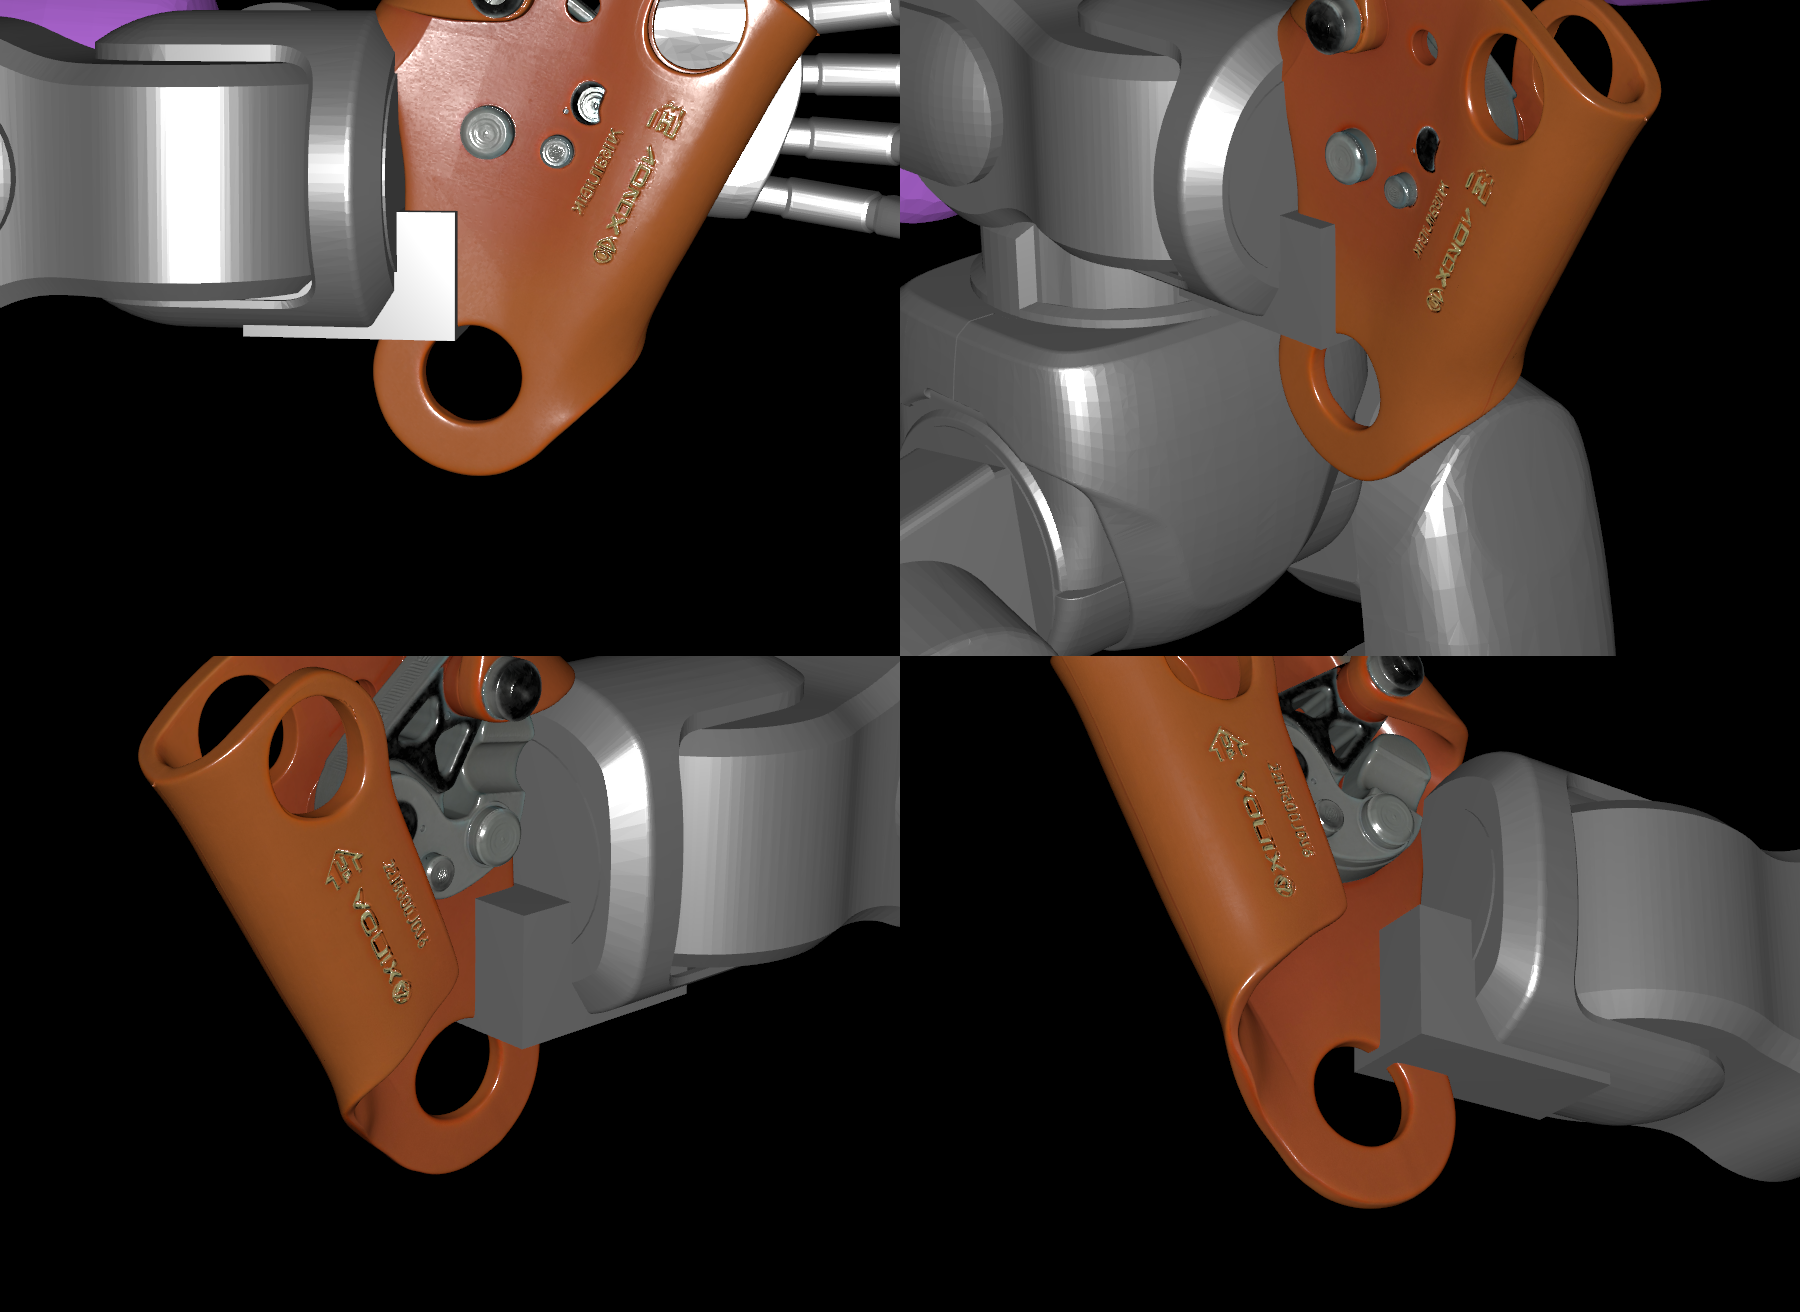
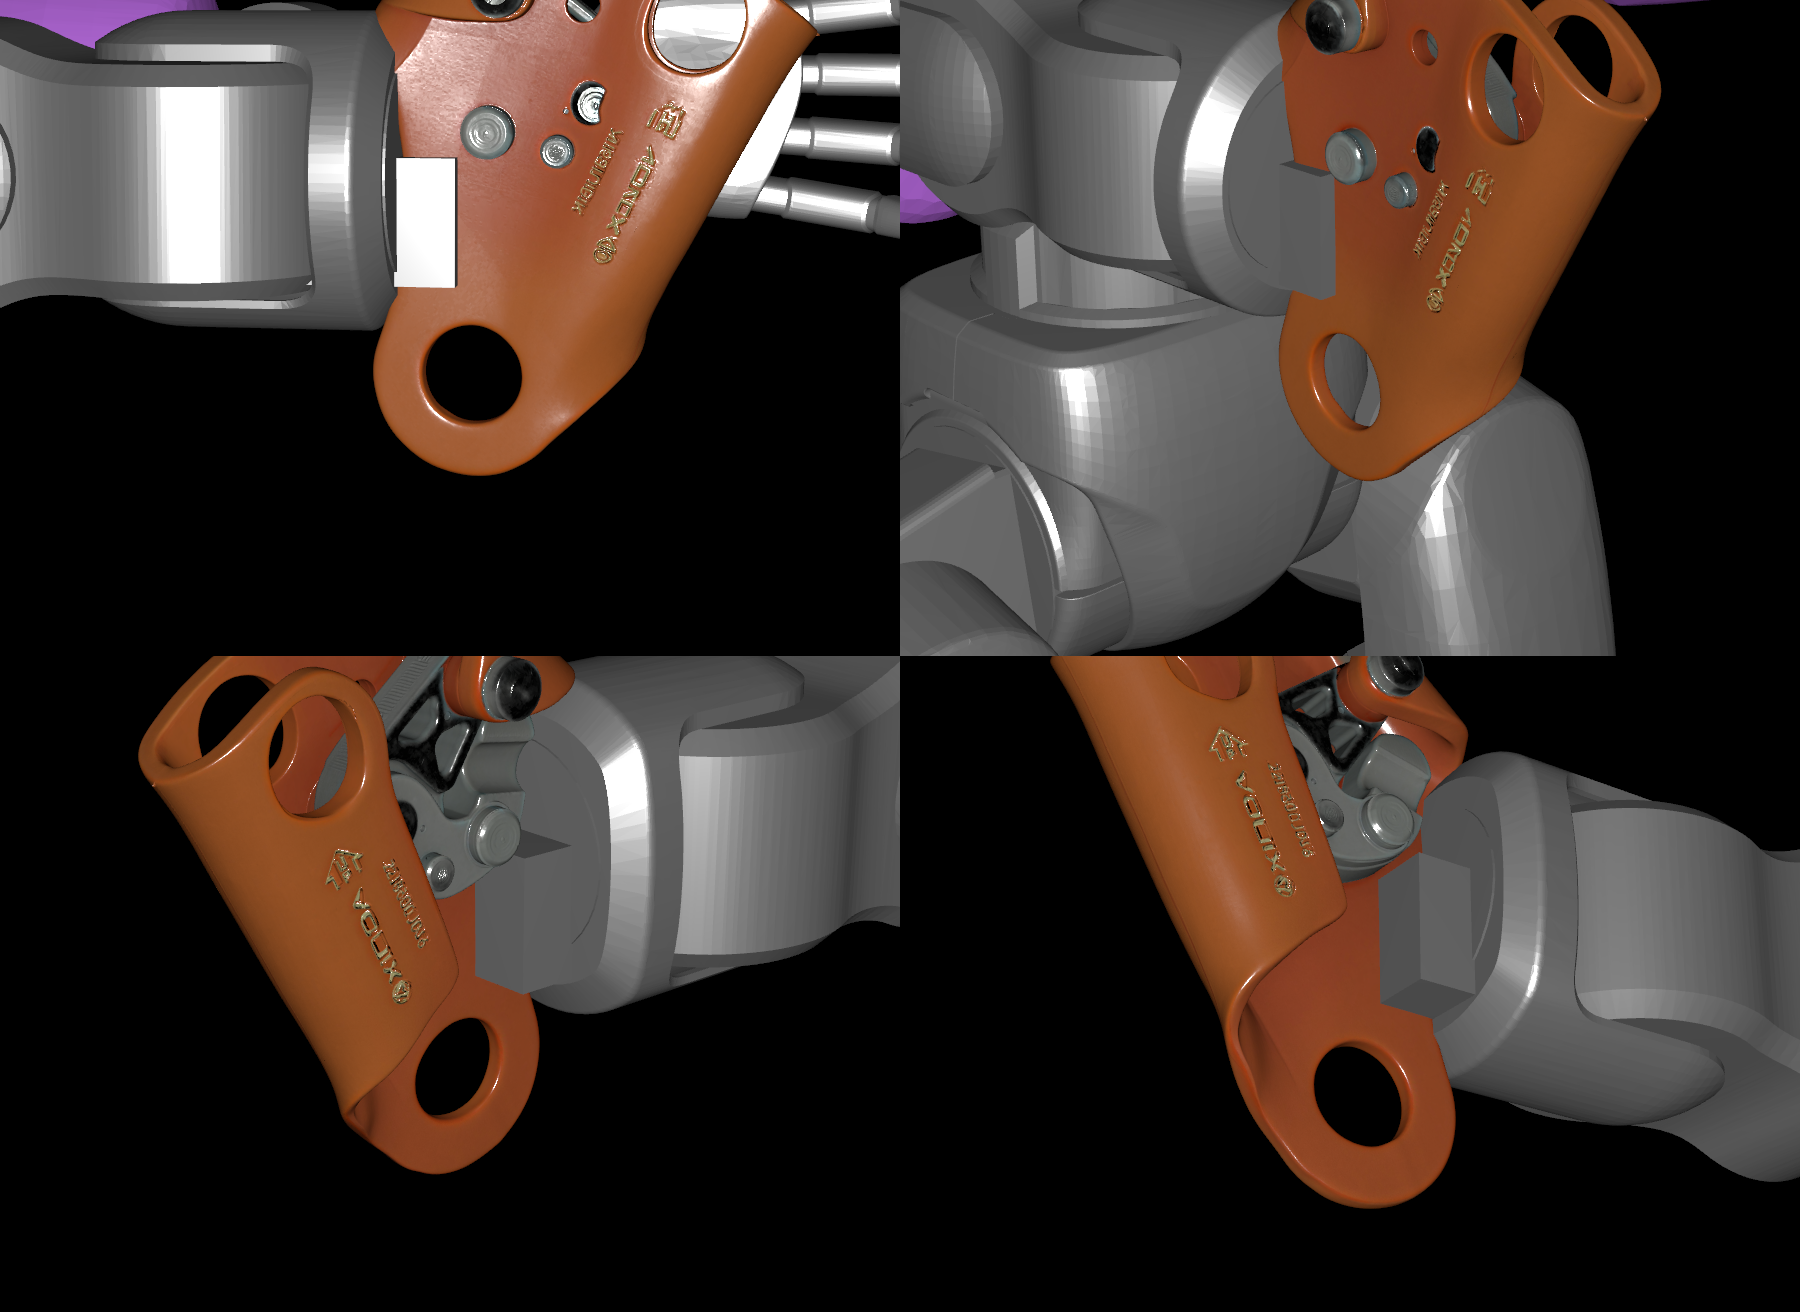
Bracket 1 cm higher
Claude-Session: https://claude.ai/code/session_01Kj5So1s4xrTsHeTeJU72py

diff --git a/assets/robots/g1/attach_tool.py b/assets/robots/g1/attach_tool.py
@@ -66,11 +66,12 @@ UsdPhysics.CollisionAPI.Apply(col.GetPrim()); UsdPhysics.MeshCollisionAPI.Apply(
 # mounting block: dark rectangular bracket from inside the wrist link into the plain slanted zone below the rivets
 bk_mat = UsdShade.Material(stage.GetPrimAtPath("/G1/Looks/metal"))   # same grey metal as the robot links
 INSERT_TOOL_PT = Gf.Vec3d(0.0126, 0.0, 0.03)          # on the slanted edge, below the rivets (tool frame)
+BRACKET_Z_UP = 0.01                                    # bracket raised along wrist Z
 _ins = INSERT_TOOL_PT * _R + TOOL_POS                  # -> wrist frame
 BLOCK_X0, BLOCK_X1, BLOCK_Y, BLOCK_Z = 0.012, _ins[0] + 0.012, 0.020, 0.024   # x span, width (Y), height (Z)
 bk = UsdGeom.Cube.Define(stage, tp.GetPath().GetParentPath().AppendChild("tool_bracket")); bk.CreateSizeAttr(1.0)
 bx = UsdGeom.Xformable(bk.GetPrim())
-bx.AddTranslateOp().Set(Gf.Vec3d((BLOCK_X0 + BLOCK_X1) / 2, 0.0, _ins[2])); bx.AddScaleOp().Set(Gf.Vec3f(BLOCK_X1 - BLOCK_X0, BLOCK_Y, BLOCK_Z))
+bx.AddTranslateOp().Set(Gf.Vec3d((BLOCK_X0 + BLOCK_X1) / 2, 0.0, _ins[2] + BRACKET_Z_UP)); bx.AddScaleOp().Set(Gf.Vec3f(BLOCK_X1 - BLOCK_X0, BLOCK_Y, BLOCK_Z))
 UsdShade.MaterialBindingAPI.Apply(bk.GetPrim()).Bind(bk_mat)
 
 # fold tool mass into the link (parallel-axis on the diagonal inertia is small at 165 g; keep principal axes)
